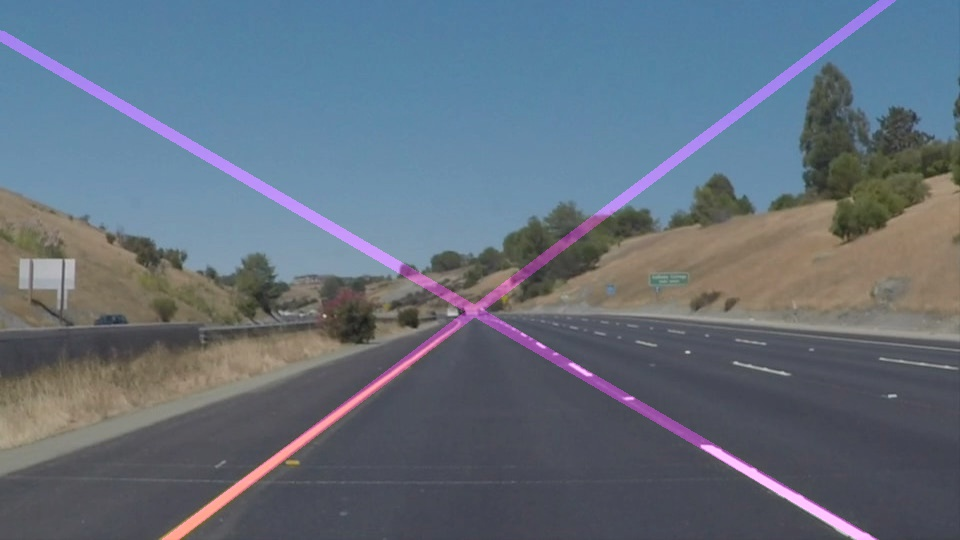
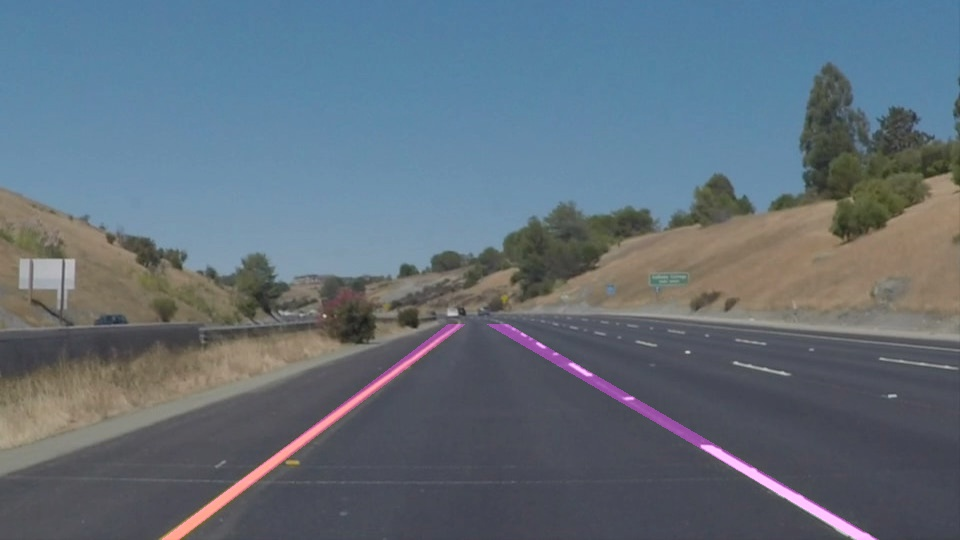
writeup: adding polar plot, cleanup

diff --git a/writeup.md b/writeup.md
@@ -38,12 +38,15 @@ and consists of the following steps
 
 <img src="test_images_output/solidYellowCurve2_4.jpg" width="300" alt="4_hough" />
 
-5) Converting line segments to polar coordinates (for separation left and right lines)
 
 
 6) Find left and right lane line and extrapolate these lines 
 
 <img src="test_images_output/solidYellowCurve2_4_2.jpg" width="300" alt="4_2_lane_segments" />
+
+5) Converting line segments to polar coordinates (for separation left and right lines)
+
+<img src="test_images_output/solidYellowCurve2_polar.jpg" width="300" alt="lane_polar" />
 
 7) Draw extrapolated lines
 
